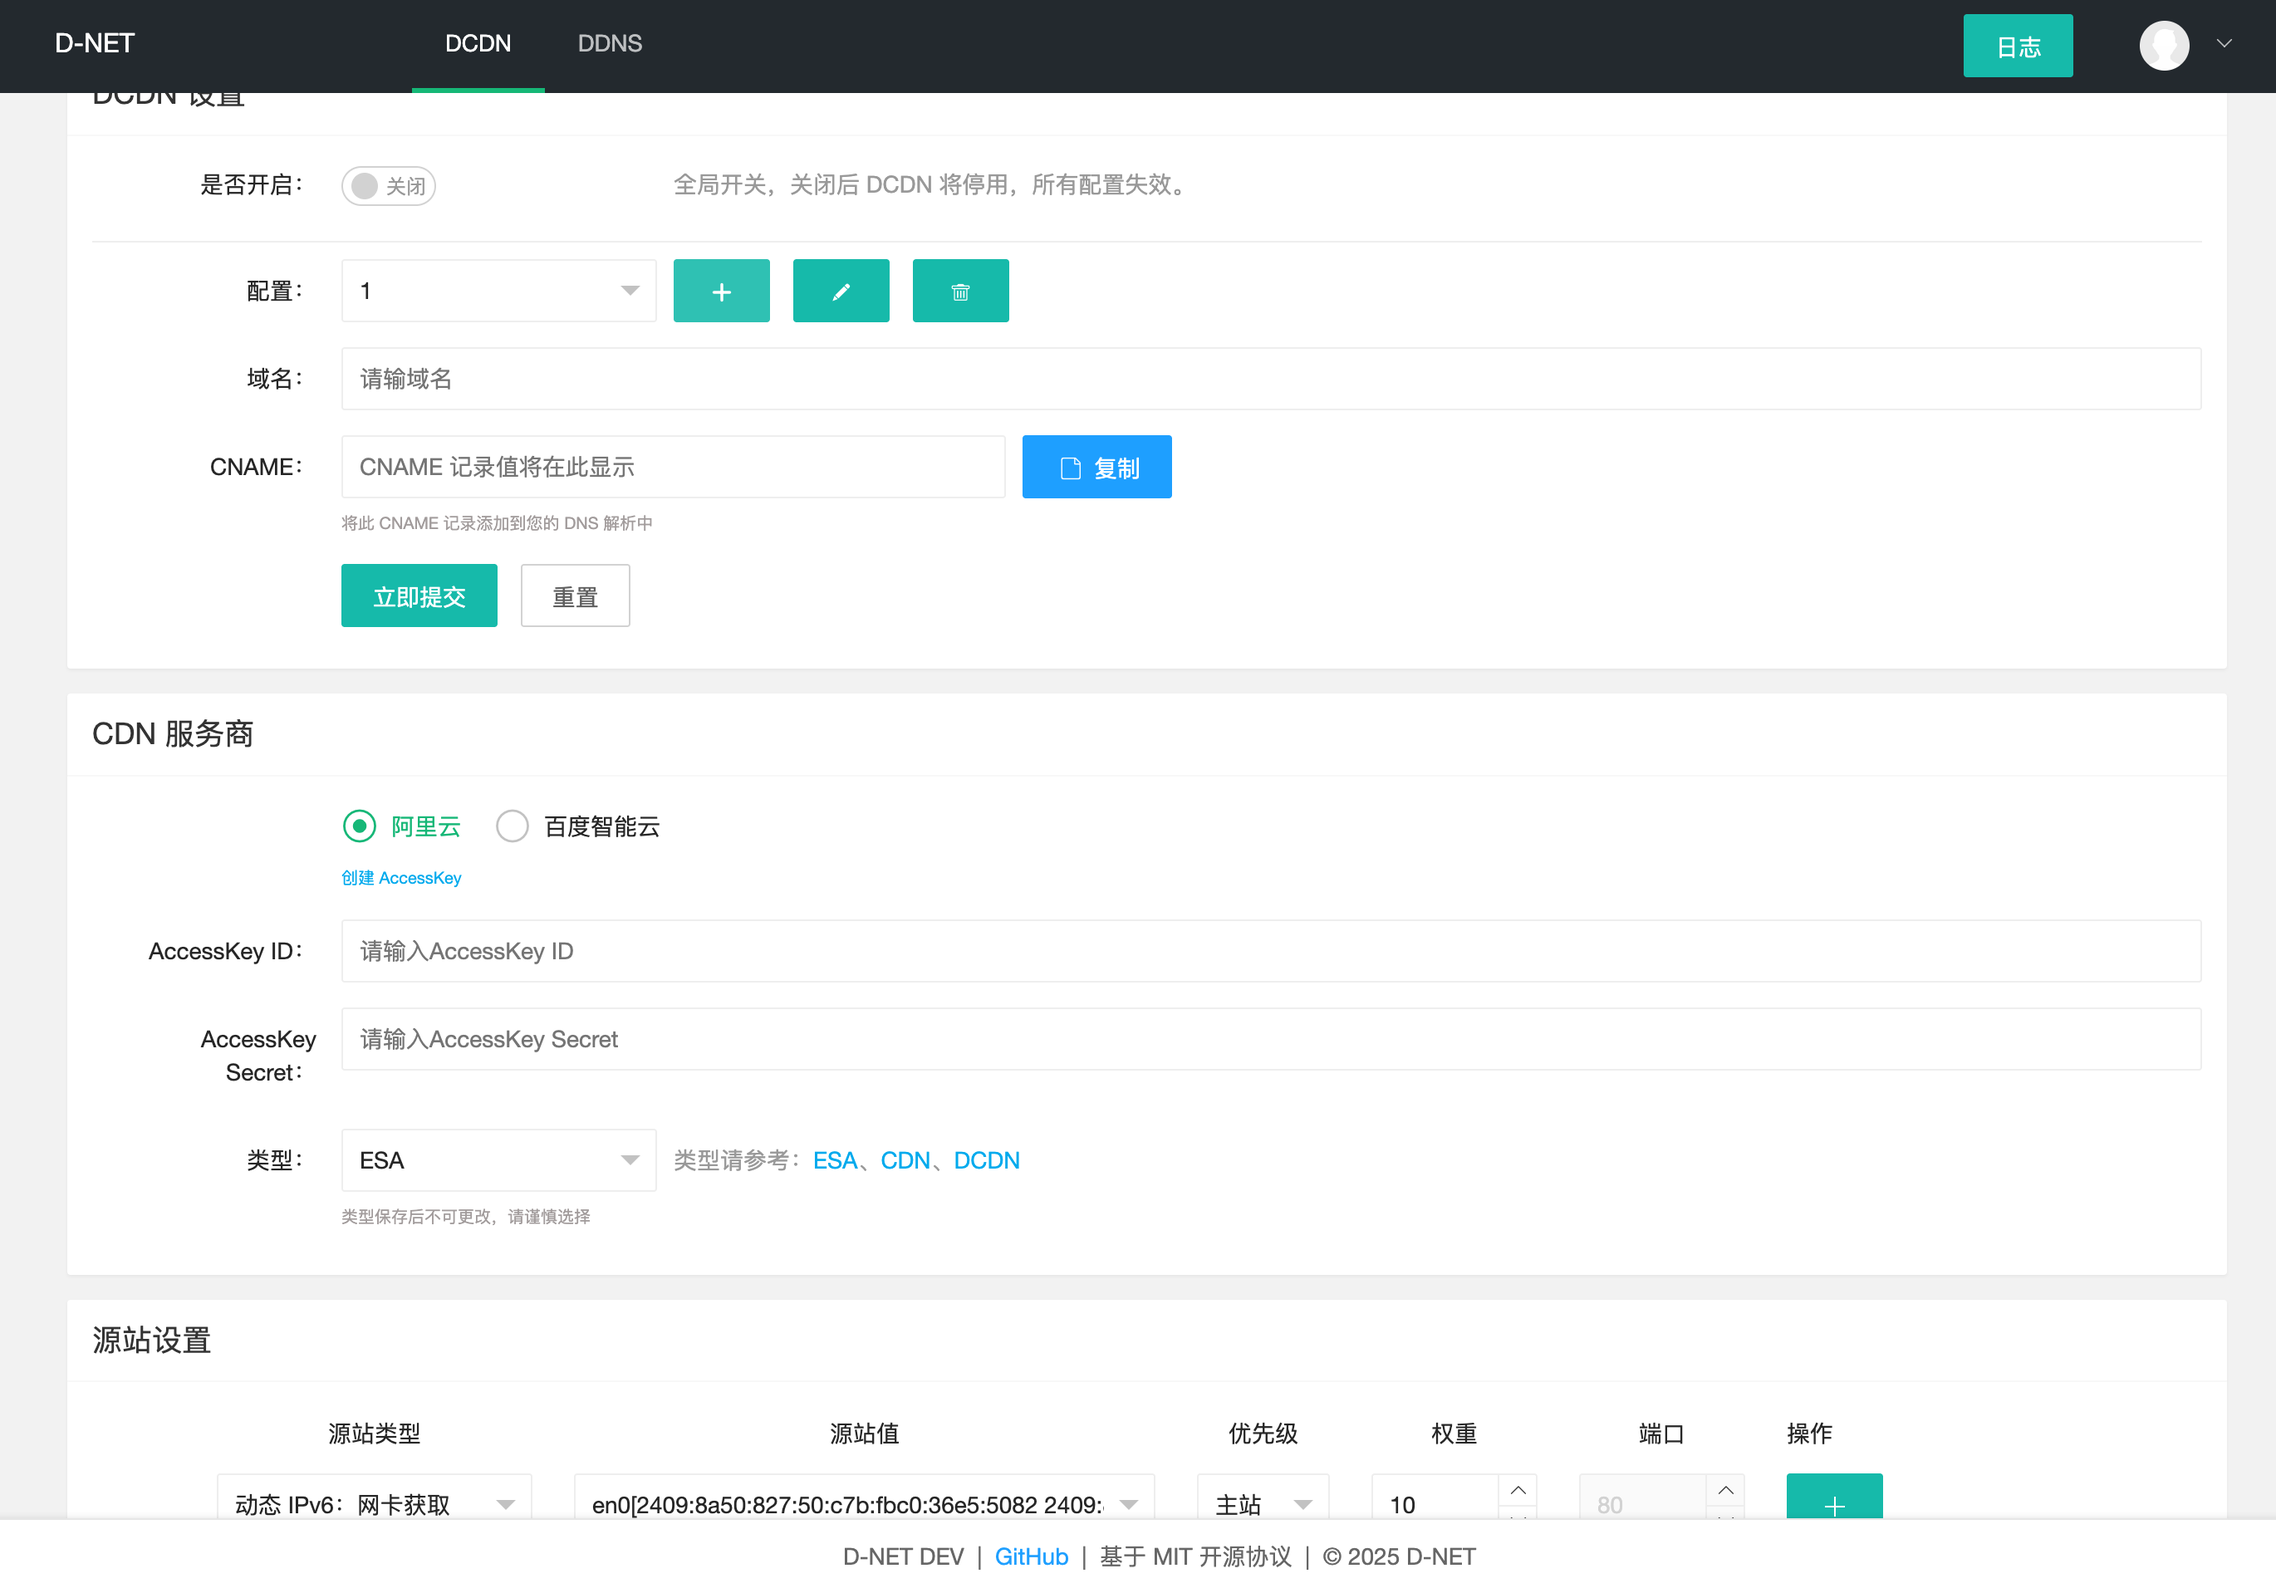
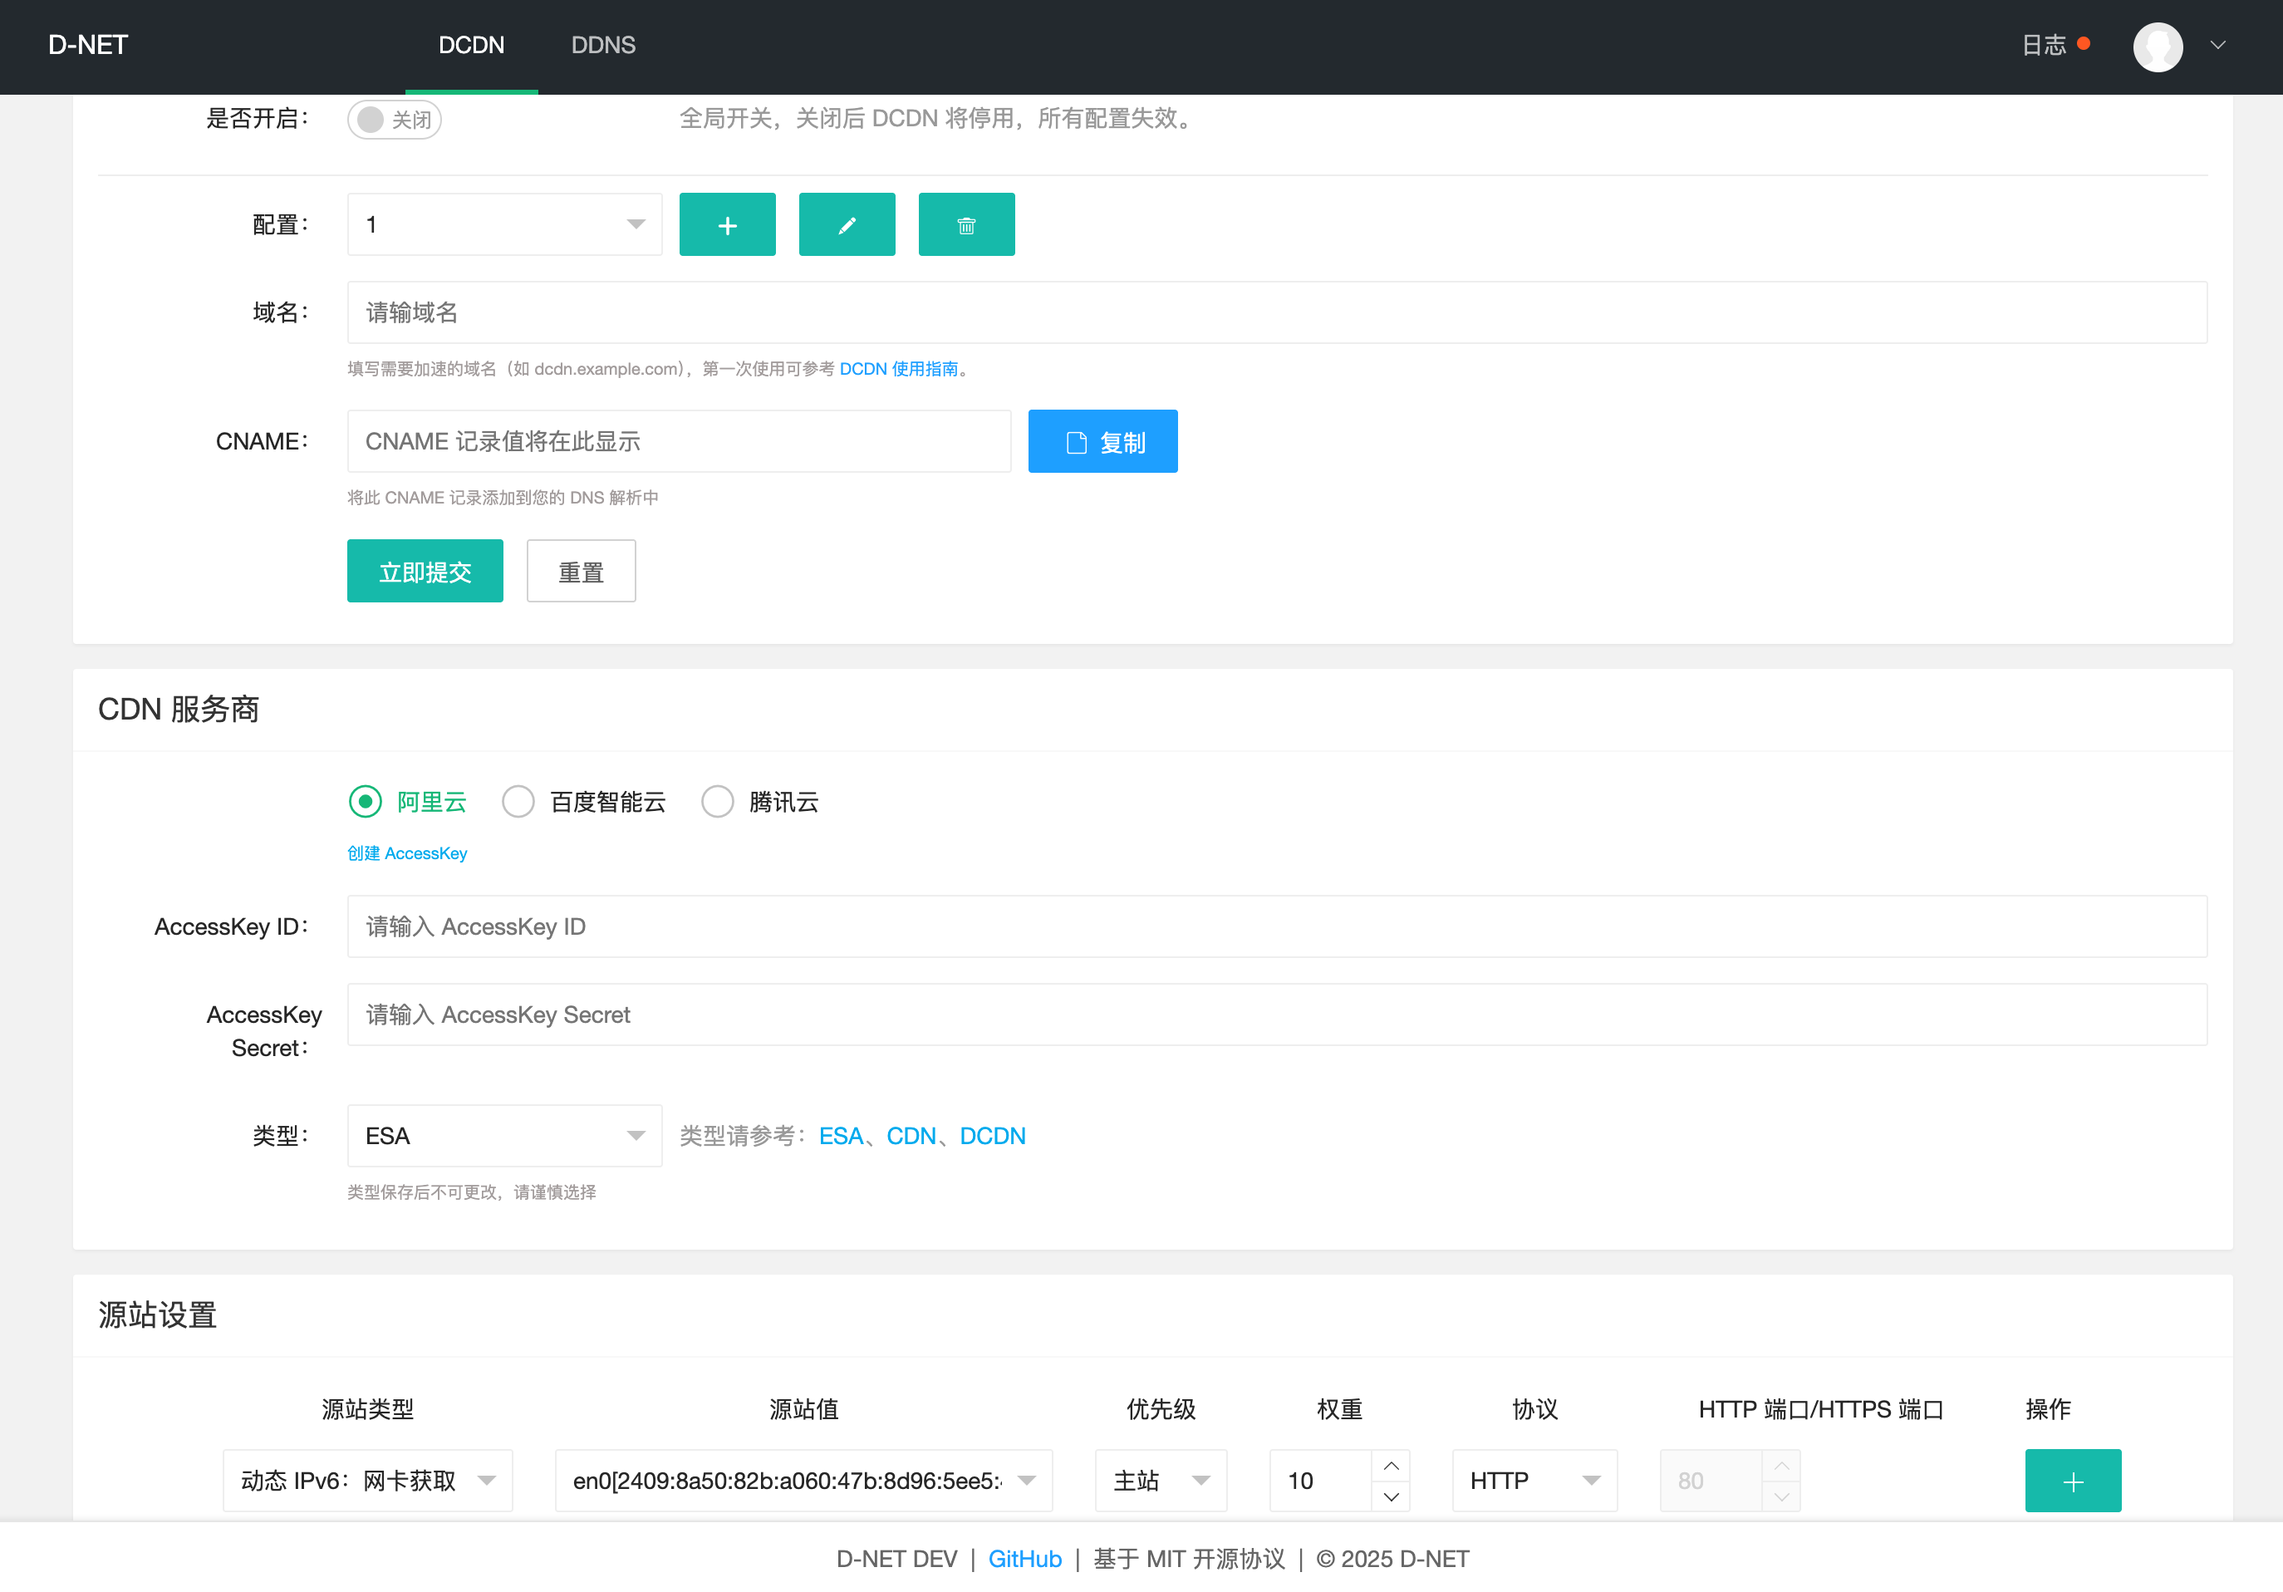
docs(readme): 更新命令行参数文档
- 添加了 -u 参数用于升级 D-NET 版本
- 重新排列了参数表格顺序
- 移动了 -dcdnCacheTimes 参数位置

diff --git a/README.md b/README.md
@@ -72,11 +72,12 @@ sudo ./dnet -s restart            # Mac/Linux
 |------|------|---------------------------|
 | `-l` | 监听地址 | `-l :9877`                |
 | `-f` | 同步间隔时间（秒） | `-f 600`                  |
-| `-dcdnCacheTimes` | 间隔 N 次与服务商比对 | `-dcdnCacheTimes 10`      |
 | `-c` | 自定义配置文件路径 | `-c /path/to/config.yaml` |
+| `-u`              | 升级当前 D-NET 版本 | `-u`                      |
 | `-noweb` | 不启动 Web 服务 | `-noweb`                  |
 | `-skipVerify` | 跳过 HTTPS 证书验证 | `-skipVerify`             |
 | `-dns` | 自定义 DNS 服务器 | `-dns 8.8.8.8`            |
+| `-dcdnCacheTimes` | 间隔 N 次与服务商比对 | `-dcdnCacheTimes 10`      |
 | `-resetPassword` | 重置密码 | `-resetPassword newpass`  |
 
 > 更多使用参数，请查看 [Wiki 文档 - D‐NET 使用指南](https://github.com/cxbdasheng/dnet/wiki/D%E2%80%90NET-%E4%BD%BF%E7%94%A8%E6%8C%87%E5%8D%97#%E5%91%BD%E4%BB%A4%E5%8F%82%E6%95%B0)。
